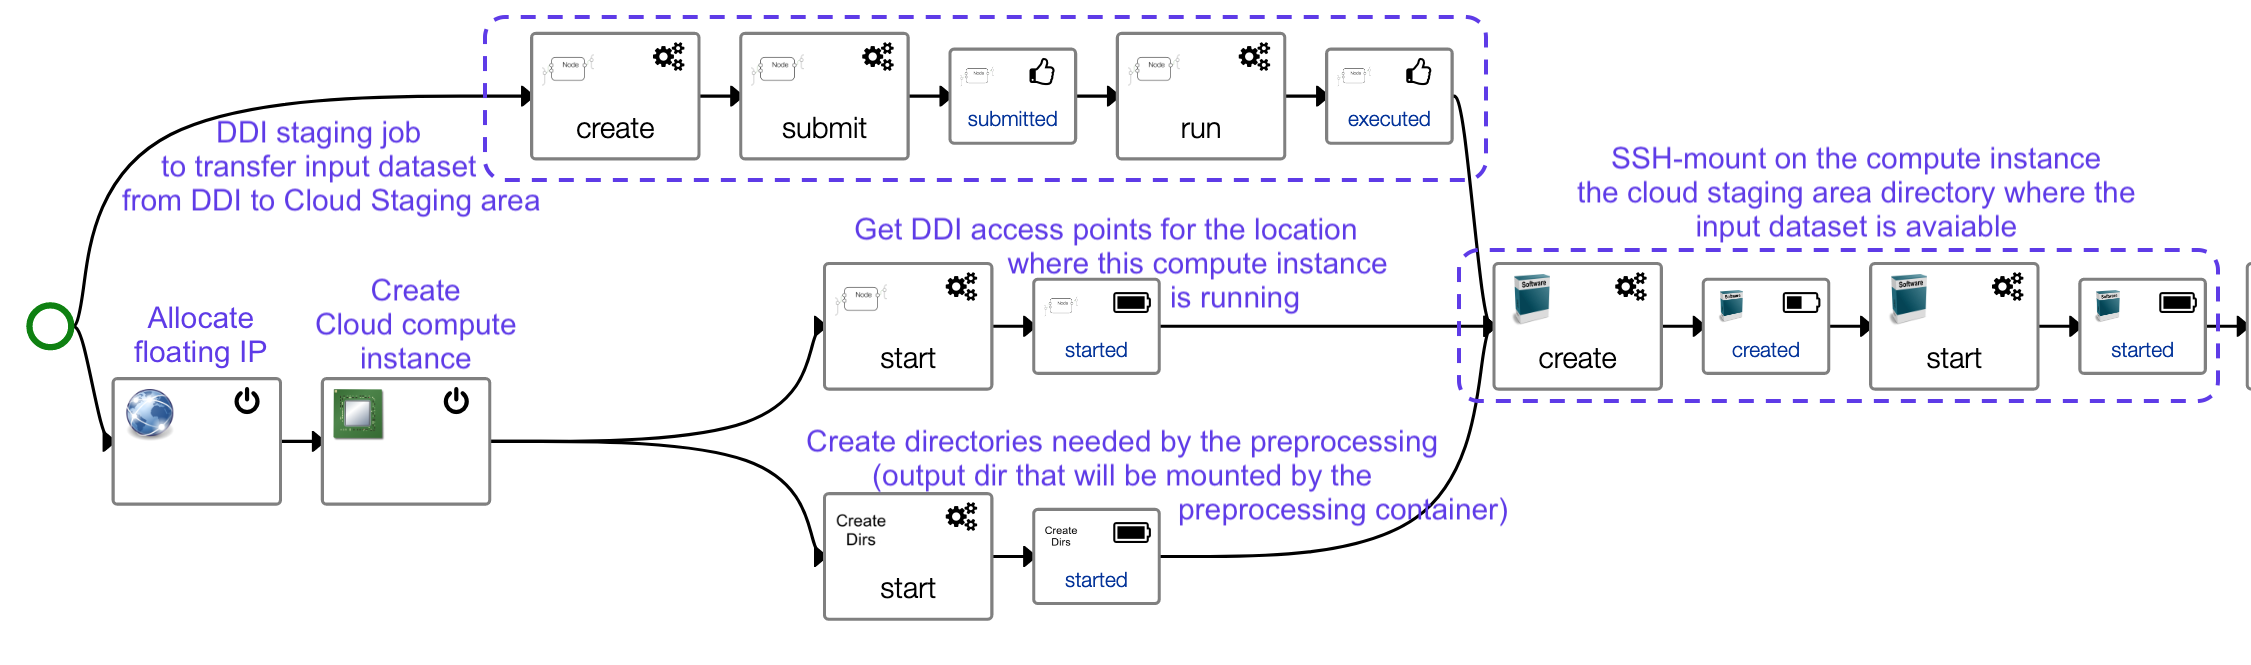
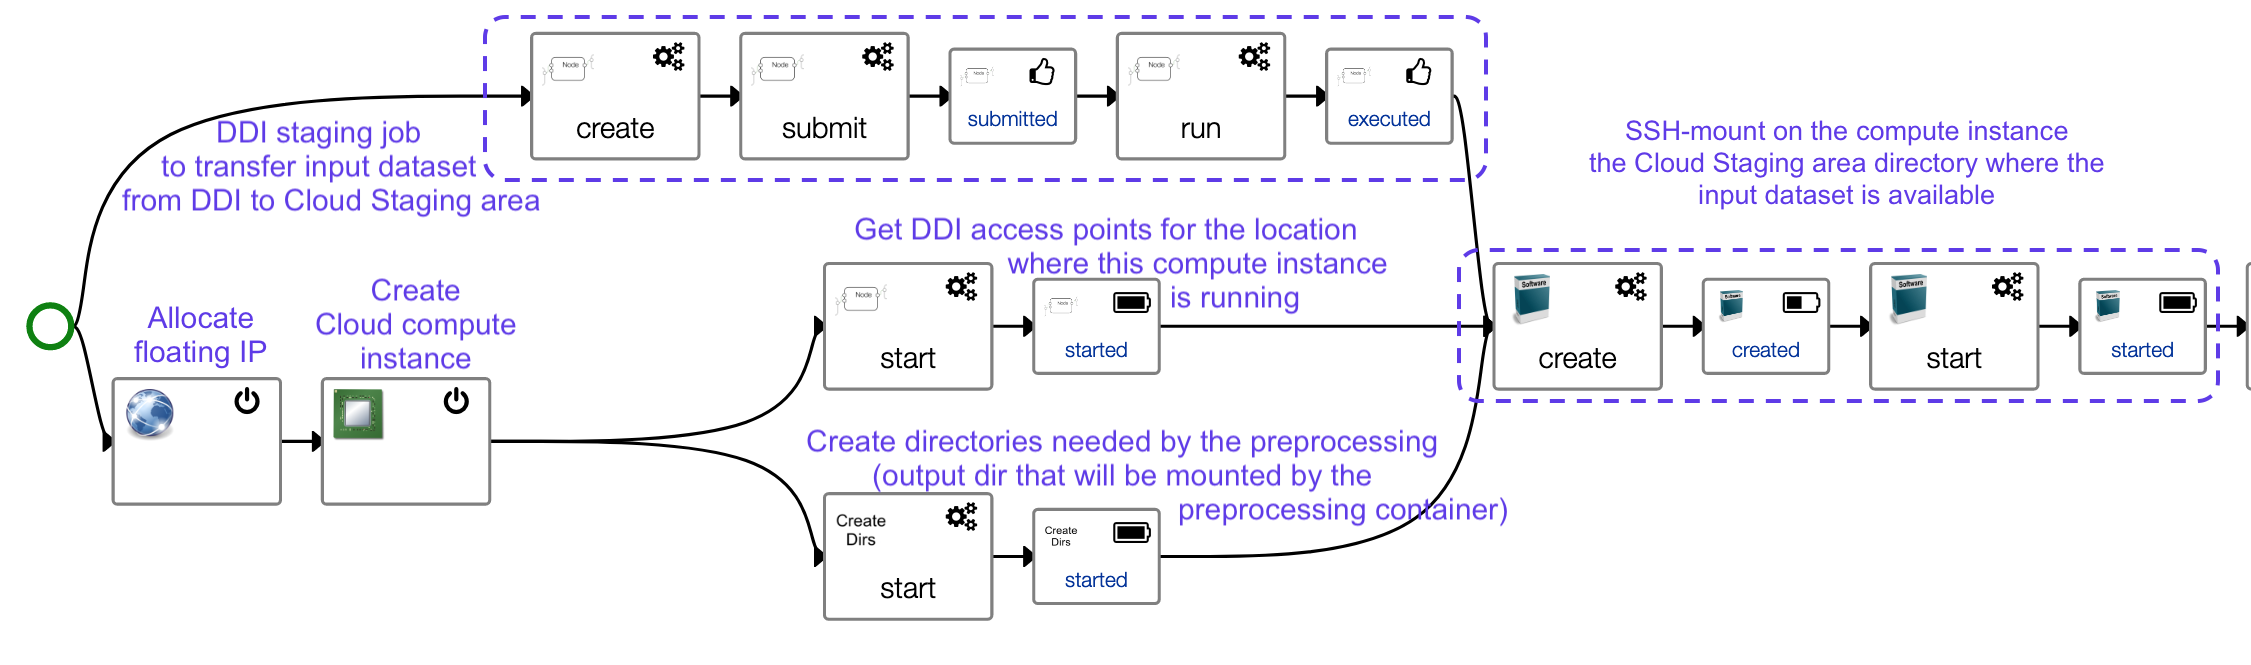
Updated LEXIS template description

Changed region(s): [[0.6841, 0.1805, 0.964, 0.3609]]

diff --git a/sample/README.md b/sample/README.md
@@ -1,6 +1,6 @@
-# Application Template sample
+# LEXIS Template
 
-Example of template of a generic LEXIS workflow implementation performing:
+Template for a generic LEXIS workflow implementation, performing:
 * the transfer of an input dataset from DDI to a Cloud Staging Area
 * the preprocessing of these data, running a docker container on a cloud compute instance created on demand
 * the transfer of preprocessing results to a HEAppE job that will perform a computation on a HPC cluster
@@ -25,6 +25,37 @@ Zooming on each sequence of this workflow, it first starts by creating a cloud
 compute instance, and transferring an input dataset from DDI to make it available to this cloud compute instance:
 
 ![Run workflow](images/workflow1_mount_input_dataset.png)
+
+Then the docker service is installed and started, and the pre-processing container is run:
+
+![Docker and container](images/workflow2_preprocessing.png)
+
+Once the container has run and produced results, a HEAppE job is first created
+and File transfers are then enabled on it, so that the next step can copy
+preprocessing results to the HEAppE job task.
+The orchestrator submits then the HEAppE job and waits for its end.
+
+![HEAppE job](images/workflow3_computation.png)
+
+Once the HEAppE job has been executed, two branches of the workflow are executed in parallel:
+* the transfer of HPC job task results to DDI
+* the transfer of HPC job task results to the compute instance for post-processing
+
+![HPC results](images/workflow4_hpc_results_transfer.png)
+
+The post-processing container is then run, its results are copied to the Cloud
+Staging Area, then staged to DDI:
+
+![postprocessing](images/workflow5_postprocessing.png)
+
+The computation is now done, the final phase is a cleanup phase where infrastructure
+resources that were allocated for the computation are now released.
+Two branches run in parallel on the workflow:
+* the branch excuted after the transfer of HPC job results, taking care of deleting the job
+* the branch executed after the post-processing, taking care of cleaning up the Cloud Staging are
+  and deleting Cloud compute resources.
+
+![cleanup](images/workflow6_cleanup.png)
 
 
 This TOSCA application template is using TOSCA components provided by the Yorc 
